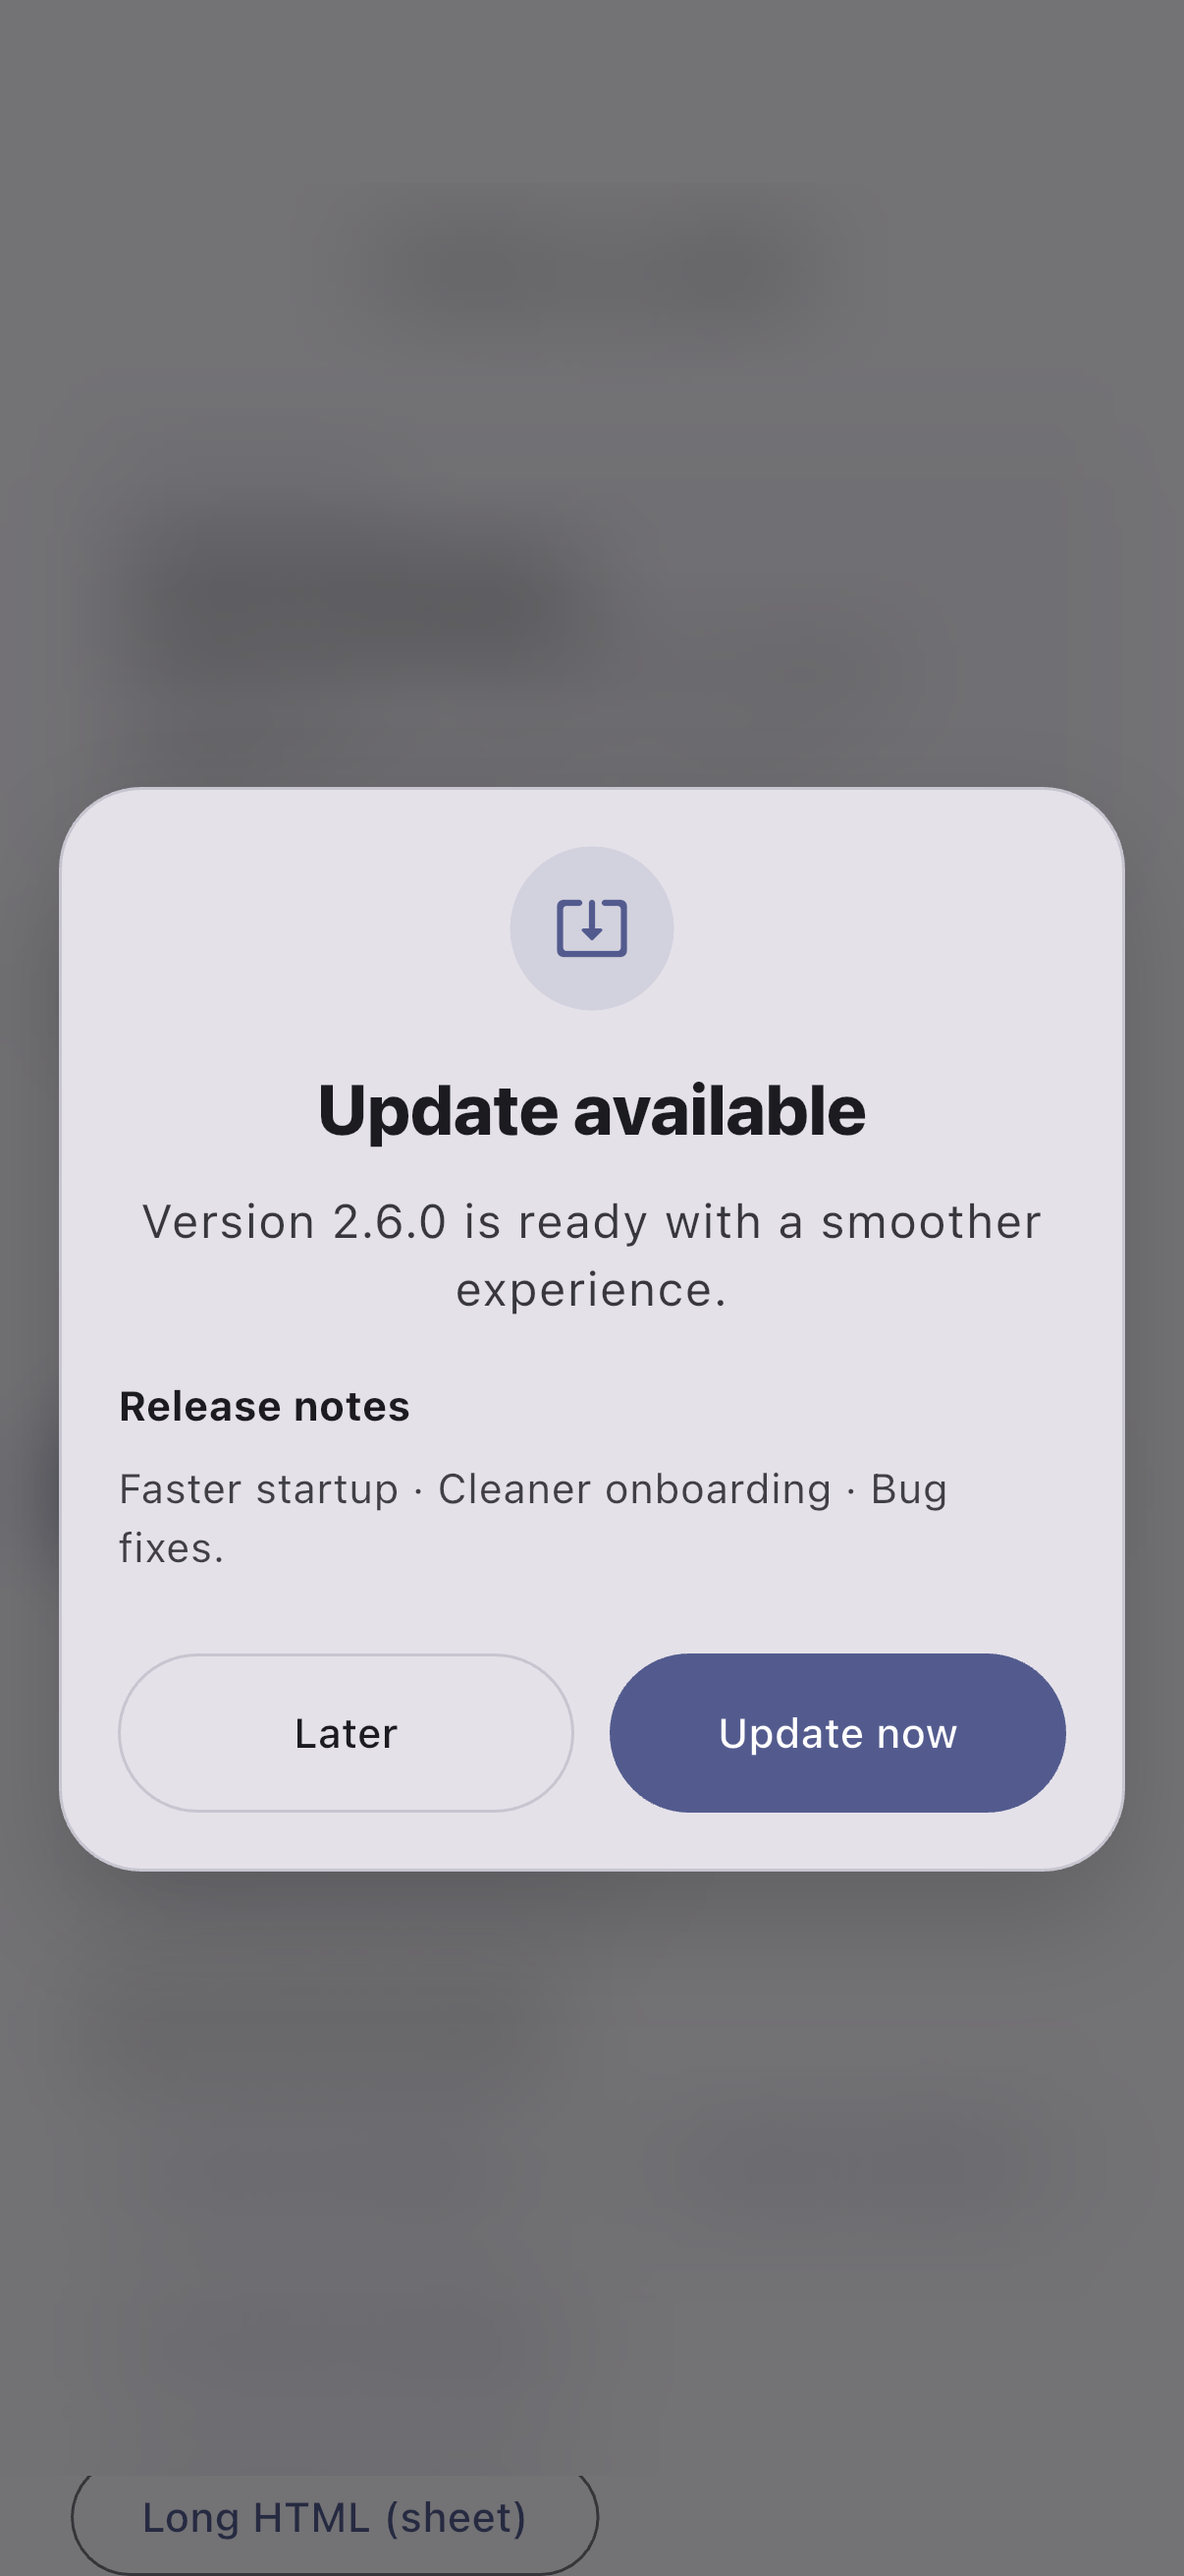
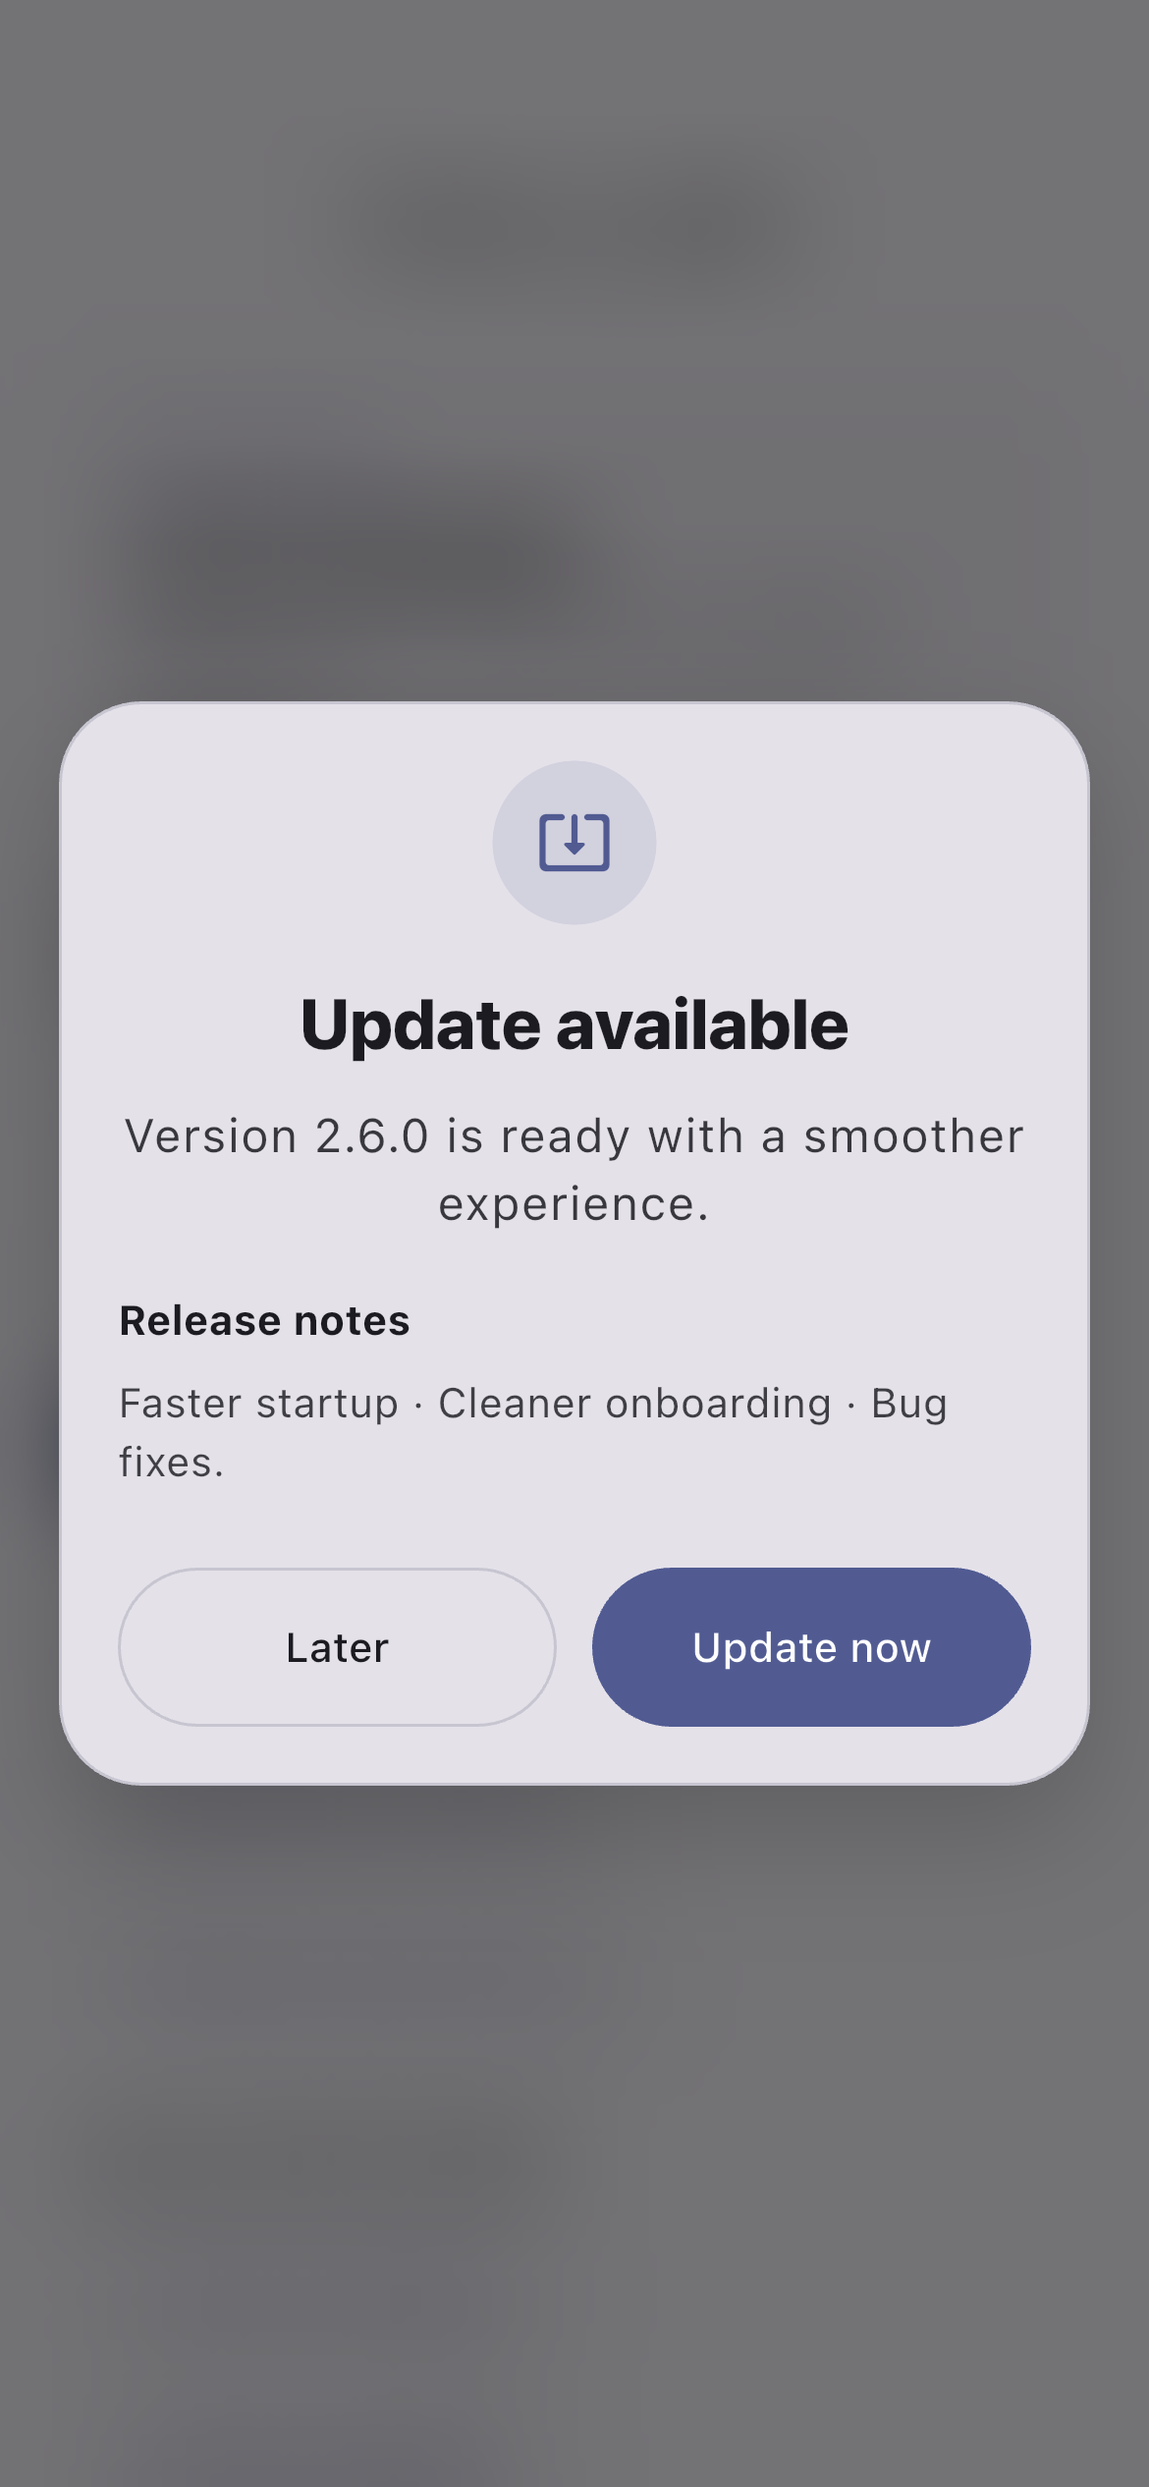
feat: version bump 1.0.5

diff --git a/lib/src/presentation/default_update_presenter.dart b/lib/src/presentation/default_update_presenter.dart
@@ -457,6 +457,7 @@ class DefaultUpdatePresenter {
       await showDialog<void>(
         context: context,
         useRootNavigator: true,
+        useSafeArea: false,
         barrierColor: config.presentation.theme.barrierColor,
         builder: (dialogContext) => _BlurredModalWrapper(
           sigma: config.presentation.theme.dialogBackgroundBlurSigma,
@@ -520,6 +521,7 @@ class DefaultUpdatePresenter {
       await showDialog<void>(
         context: context,
         useRootNavigator: true,
+        useSafeArea: false,
         barrierDismissible: false,
         barrierColor: config.presentation.theme.barrierColor,
         builder: (dialogContext) => PopScope(
@@ -659,6 +661,7 @@ class DefaultUpdatePresenter {
       await showDialog<void>(
         context: context,
         useRootNavigator: true,
+        useSafeArea: false,
         barrierDismissible: false,
         barrierColor: config.presentation.theme.barrierColor,
         builder: (dialogContext) => PopScope(
@@ -842,6 +845,7 @@ class DefaultUpdatePresenter {
     await showDialog<void>(
       context: context,
       useRootNavigator: true,
+      useSafeArea: false,
       barrierColor: config.presentation.theme.barrierColor,
       builder: (dialogContext) {
         return _BlurredModalWrapper(
